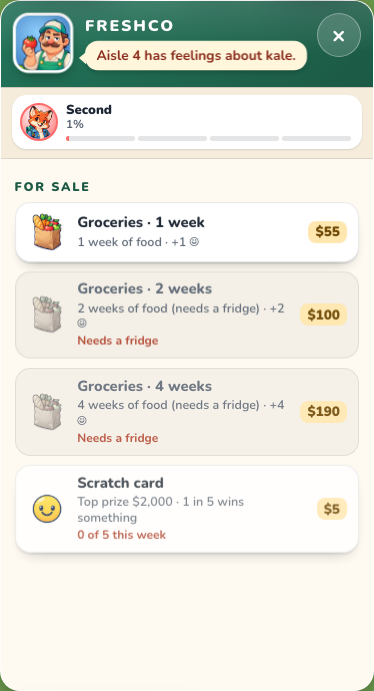
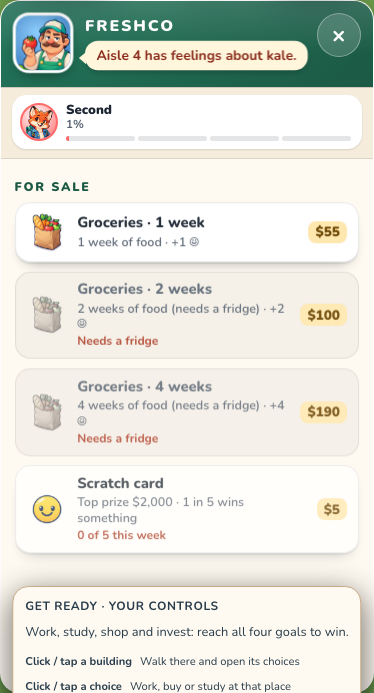
Keep Fusetown TV controls working after shared menu integration

diff --git a/scripts/fuse-lane-online-smoke.ts b/scripts/fuse-lane-online-smoke.ts
@@ -21,7 +21,8 @@ async function page(phone = false): Promise<Page> {
   return result;
 }
 async function create(host: Page, shared: boolean): Promise<string> {
-  await host.goto(`${service.url}fuse-lane/?mute`);
+  await host.goto(`${service.url}?mute`);
+  await host.locator('.arcade-game[href*="fuse-lane/"]').click();
   await host.getByRole("tab", { name: "PLAY ONLINE" }).click();
   await host.getByRole("textbox", { name: "Your name" }).fill("Host");
   if (shared)
@@ -52,6 +53,11 @@ try {
   await host.getByRole("button", { name: "START MATCH", exact: true }).click();
   await running(host, "board");
   await running(guest, "board");
+  await guest.getByRole("button", { name: "MENU", exact: true }).click();
+  await guest.getByRole("button", { name: "CONTROLS", exact: true }).click();
+  await guest.locator(".fui-game-menu-controls .fui-controls-list").waitFor();
+  await guest.keyboard.press("Escape");
+  await guest.locator(".fui-game-menu-panel").waitFor({ state: "hidden" });
   await host
     .getByRole("button", { name: "CALL IT A WEEK", exact: true })
     .click();
@@ -82,11 +88,28 @@ try {
   await running(tv, "tv");
   await running(first, "controller");
   await running(second, "controller");
+  await tv.getByRole("button", { name: "MENU", exact: true }).click();
+  await tv.getByRole("button", { name: "CONTROLS", exact: true }).click();
+  await tv
+    .getByText(
+      "Shared screen: watch here. Players use their own phones or devices.",
+    )
+    .waitFor();
+  await tv.locator(".fui-game-menu-controls .fui-controls-list").waitFor();
+  await tv.keyboard.press("Escape");
   await first.getByRole("button", { name: "FreshCo", exact: true }).click();
   await first.locator(".fl-panel:not([hidden])").waitFor();
+  await first
+    .locator(".fl-panel:not([hidden]) .fl-card:not([disabled])")
+    .first()
+    .waitFor();
   await first.reload();
   await running(first, "controller");
   await first.locator(".fl-panel:not([hidden])").waitFor();
+  await first
+    .locator(".fl-panel:not([hidden]) .fl-card:not([disabled])")
+    .first()
+    .waitFor();
   await first
     .locator(".fl-panel:not([hidden])")
     .screenshot({ path: "artifacts/fuse-lane-rejoined-phone.png" });
@@ -99,6 +122,7 @@ try {
     .getByRole("button", { name: "CALL IT A WEEK", exact: true })
     .click();
   await tv.locator('.fl-room[data-week="2"]').waitFor();
+  await tv.getByText("GET READY · PHONE CONTROLS", { exact: true }).waitFor();
   assert.deepEqual(errors, [], "no browser exceptions");
   console.log(
     "Chromium: device room to week 2; shared TV + two phone viewports; shop refresh recovers mid-week; shared week 2; no page errors",

diff --git a/games/fuse-lane/src/app/main.ts b/games/fuse-lane/src/app/main.ts
@@ -103,8 +103,7 @@ const localDeps = {
 };
 
 /**
- * The top bar. `allGames` adds an "ALL GAMES" button that opens the app portal's list of games: the site root is
- * Fuse Riders itself, not a list of games, so the button must not link there.
+ * The top bar. `allGames` adds an "ALL GAMES" button that opens the app portal's list of games.
  */
 function header(extra: HTMLElement[] = [], allGames = false): HTMLElement {
   const bar = el("header", "", "fl-top"),
@@ -621,7 +620,7 @@ function room(): void {
       gameMenu.update({
         canLobby: viewer.host && frame.phase !== "lobby",
         spectator: !model.seated,
-        display: viewer.display,
+        display: viewer.display || sharedHost,
       });
       main.dataset.phase = frame.phase;
       main.dataset.week = String(frame.week);

diff --git a/games/fuse-lane/tests/screen.test.ts b/games/fuse-lane/tests/screen.test.ts
@@ -253,6 +253,15 @@ test("controls appear at the start of every week and every pass-device handoff",
   assert.match(handoffGuide.textContent ?? "", /Click \/ tap a choice/);
 });
 
+test("a shared-TV creator's Monday briefing shows phone controls without a display role", () => {
+  const h = harness({ bots: 0 });
+  h.render({ ...monday(h), layout: "tv", seated: false });
+  const guide = h.$(".fl-briefing .fui-round-controls");
+  assert.equal(guide.hidden, false);
+  assert.match(guide.textContent ?? "", /GET READY · PHONE CONTROLS/);
+  assert.match(guide.textContent ?? "", /CALL IT A WEEK/);
+});
+
 test("the HUD: hours, week, clock, money and goal rings; CALL IT A WEEK logs this week's entry", () => {
   const h = harness();
   const model = h.render();

diff --git a/games/fuse-lane/src/app/screen.ts b/games/fuse-lane/src/app/screen.ts
@@ -909,13 +909,13 @@ export function createGameScreen(
         next.hud && next.hud.timer > 0.9 && !next.hud.done && !modal,
       ),
       spectator: !next.seated && !viewer.local,
-      display: viewer.display,
+      display: viewer.display || next.layout === "tv",
     });
     briefingControls.update({
       round: next.briefing?.week ?? "",
       visible: Boolean(next.briefing),
       spectator: !next.seated && !viewer.local,
-      display: viewer.display,
+      display: viewer.display || next.layout === "tv",
     });
     handoffControls.update({
       round: `${next.handoff?.week}:${next.handoff?.name}`,

diff --git a/games/fuse-lane/tests/netcode.test.ts b/games/fuse-lane/tests/netcode.test.ts
@@ -146,6 +146,12 @@ test("a room snapshot carries the Fusetown room whole, and a tampered one is ref
   source.advance(400);
   const chunks = encodeSnapshot(source, 4);
   assert.equal(chunks[0]!.rules, "fuse-lane-5");
+  const oldRules = new SnapshotAssembler(fuseLaneGame, 4);
+  for (const chunk of chunks)
+    assert.equal(
+      oldRules.accept({ ...chunk, rules: "fuse-lane-4" }),
+      undefined,
+    );
   const assembler = new SnapshotAssembler(fuseLaneGame, 4);
   let complete: { tick: number; bytes: Uint8Array } | undefined;
   for (const chunk of chunks) complete = assembler.accept(chunk);

diff --git a/games/fuse-lane/README.md b/games/fuse-lane/README.md
@@ -109,7 +109,7 @@ Every coefficient lives in `src/game/data/economy.ts`.
 
 ## Online smoke check
 
-Run `pnpm build`, then `pnpm exec tsx scripts/fuse-lane-online-smoke.ts` from the repository root. The Chromium check starts its own in-memory room service on a free port, plays a room through week 2, then checks a shared TV with two phone viewports and a phone refresh inside a shop mid-week. Screenshots and the service log go in `artifacts/`. This checks browser behavior; it does not qualify physical phones or production room availability.
+Run `pnpm build`, then `pnpm exec tsx scripts/fuse-lane-online-smoke.ts` from the repository root. The Chromium check starts its own in-memory room service on a free port, opens Fusetown from the landing gallery, checks the phone and shared-TV menu controls, and plays a room through week 2. It then checks a shared TV with two phone viewports, a phone refresh inside a shop mid-week, and the TV's Monday phone guidance. Screenshots and the service log go in `artifacts/`. This checks browser behavior; it does not qualify physical phones or production room availability.
 
 The reconnect rule uses `fuse-lane-5`: clients with older rules cannot join the same room.
 
